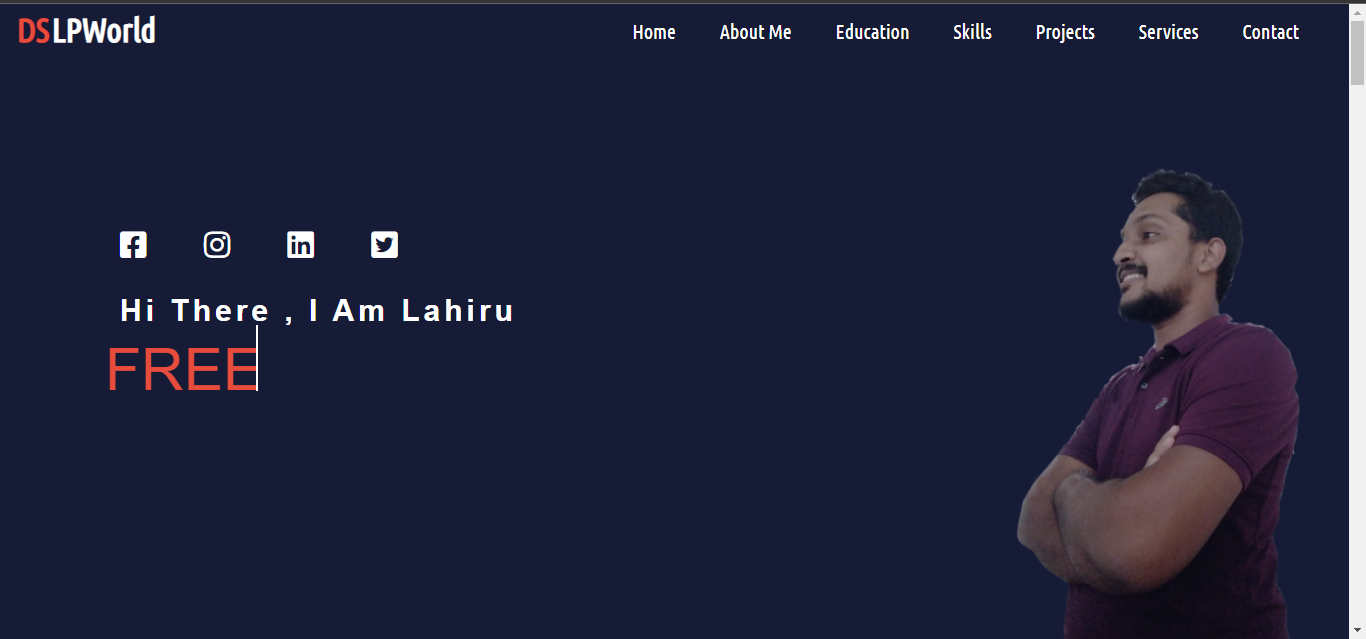
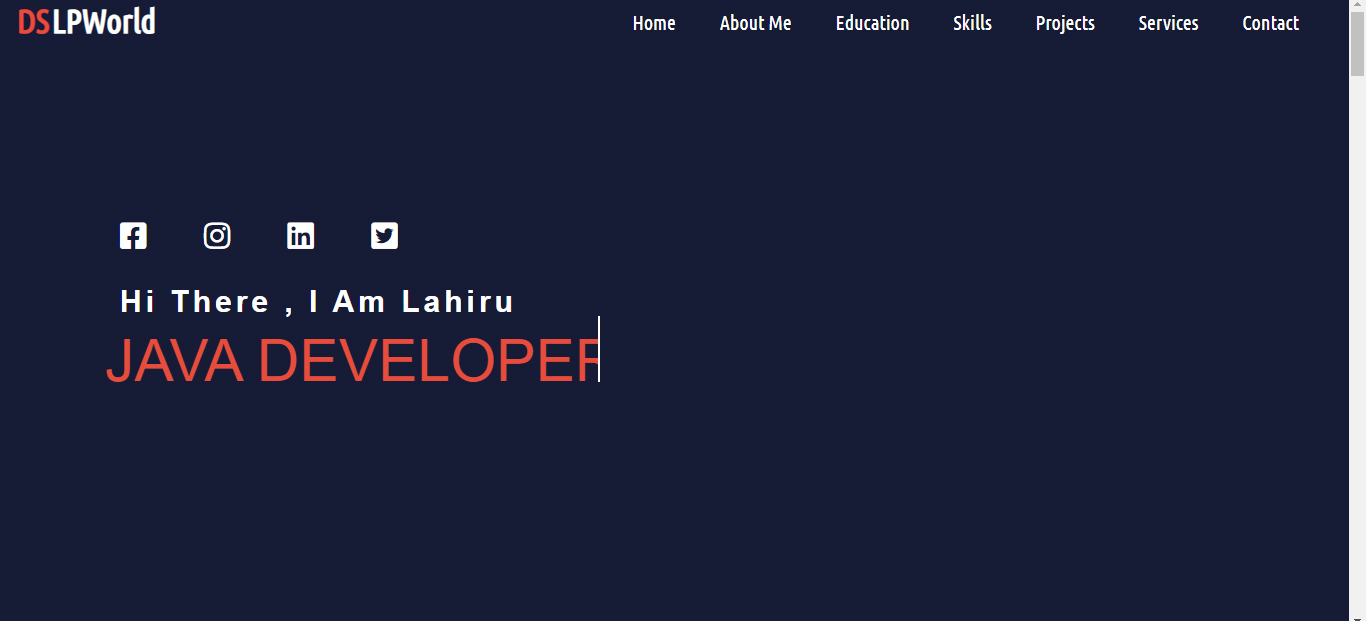
content updated

diff --git a/index.html b/index.html
@@ -62,7 +62,7 @@
         </section>
         <section></section>
         <section></section>
-        <img alt="" height="547" src="assets/images/my%20pic%201.png" width="382">
+<!--        <img alt="" height="547" src="assets/images/my%20pic%201.png" width="382">-->
 
     </section>
 
